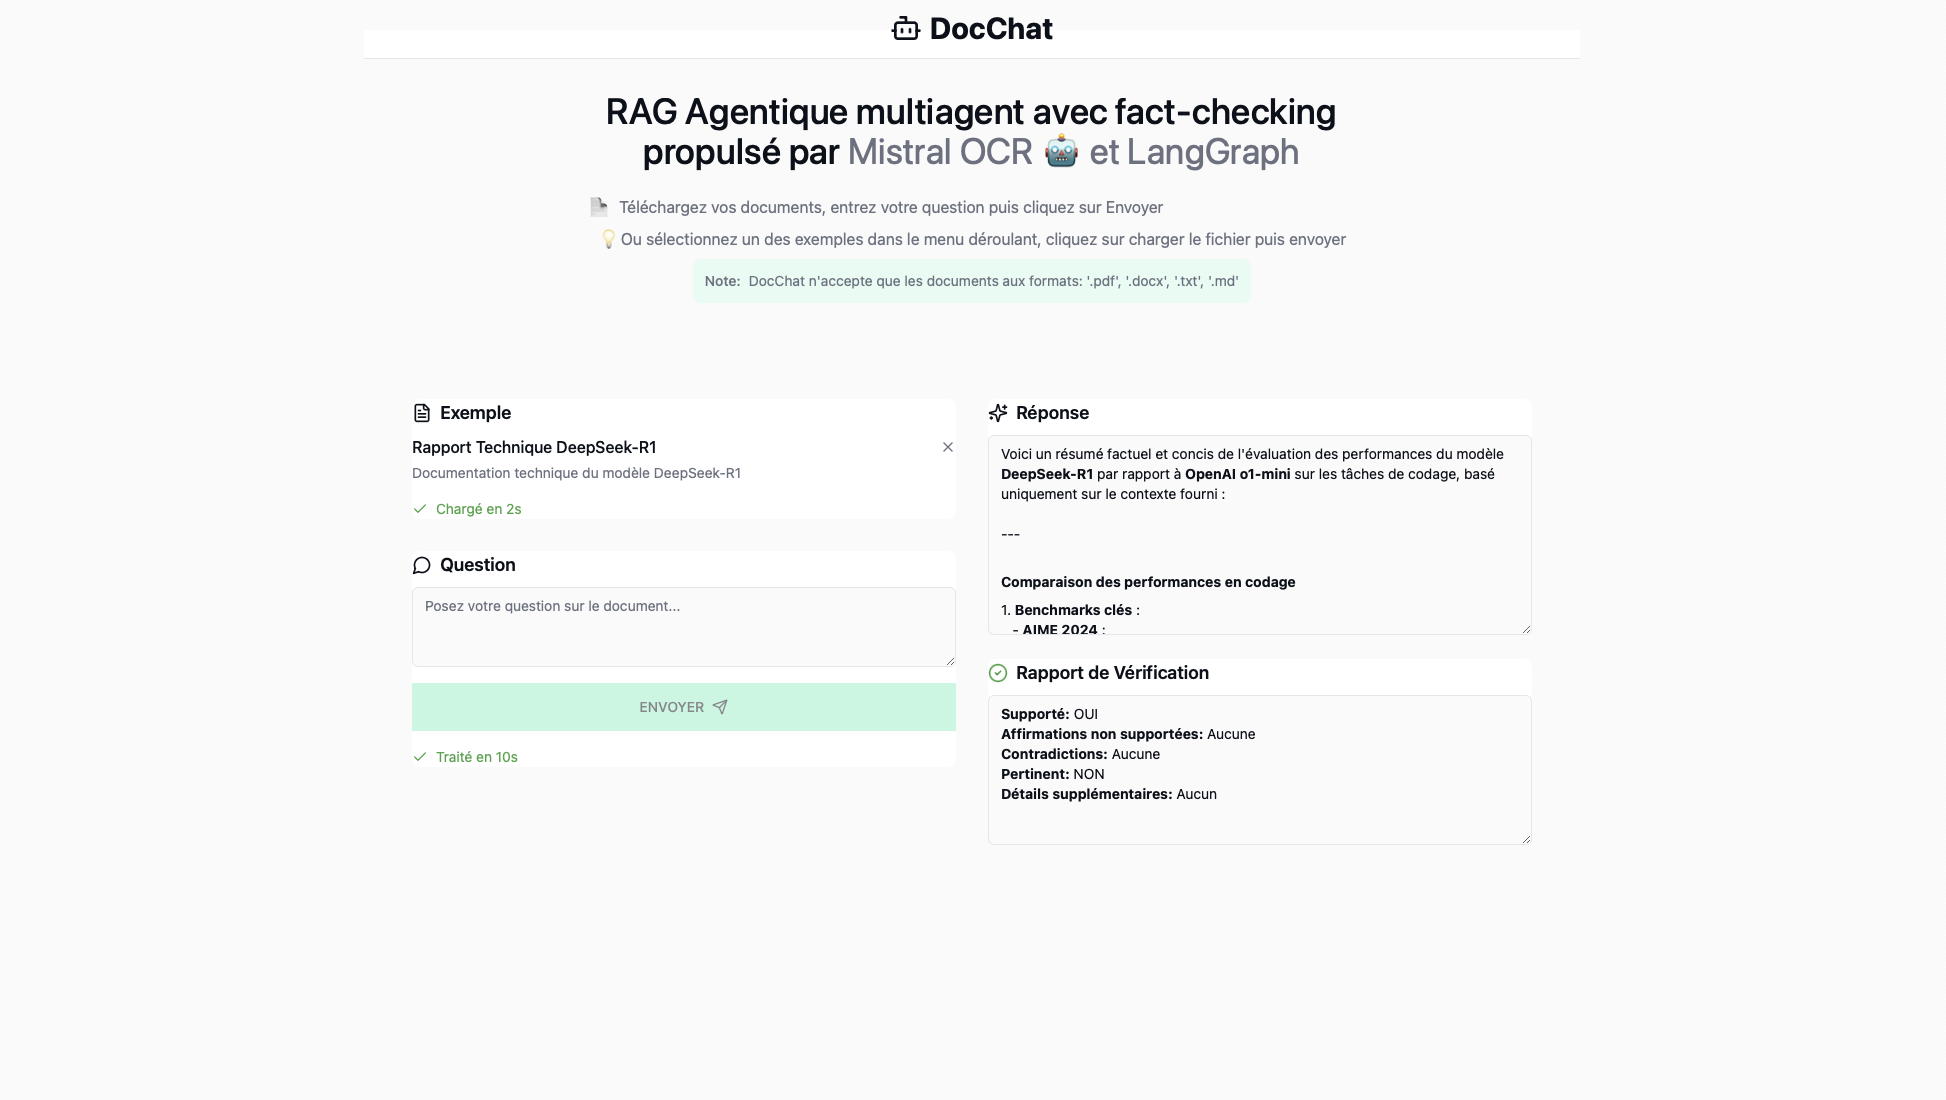
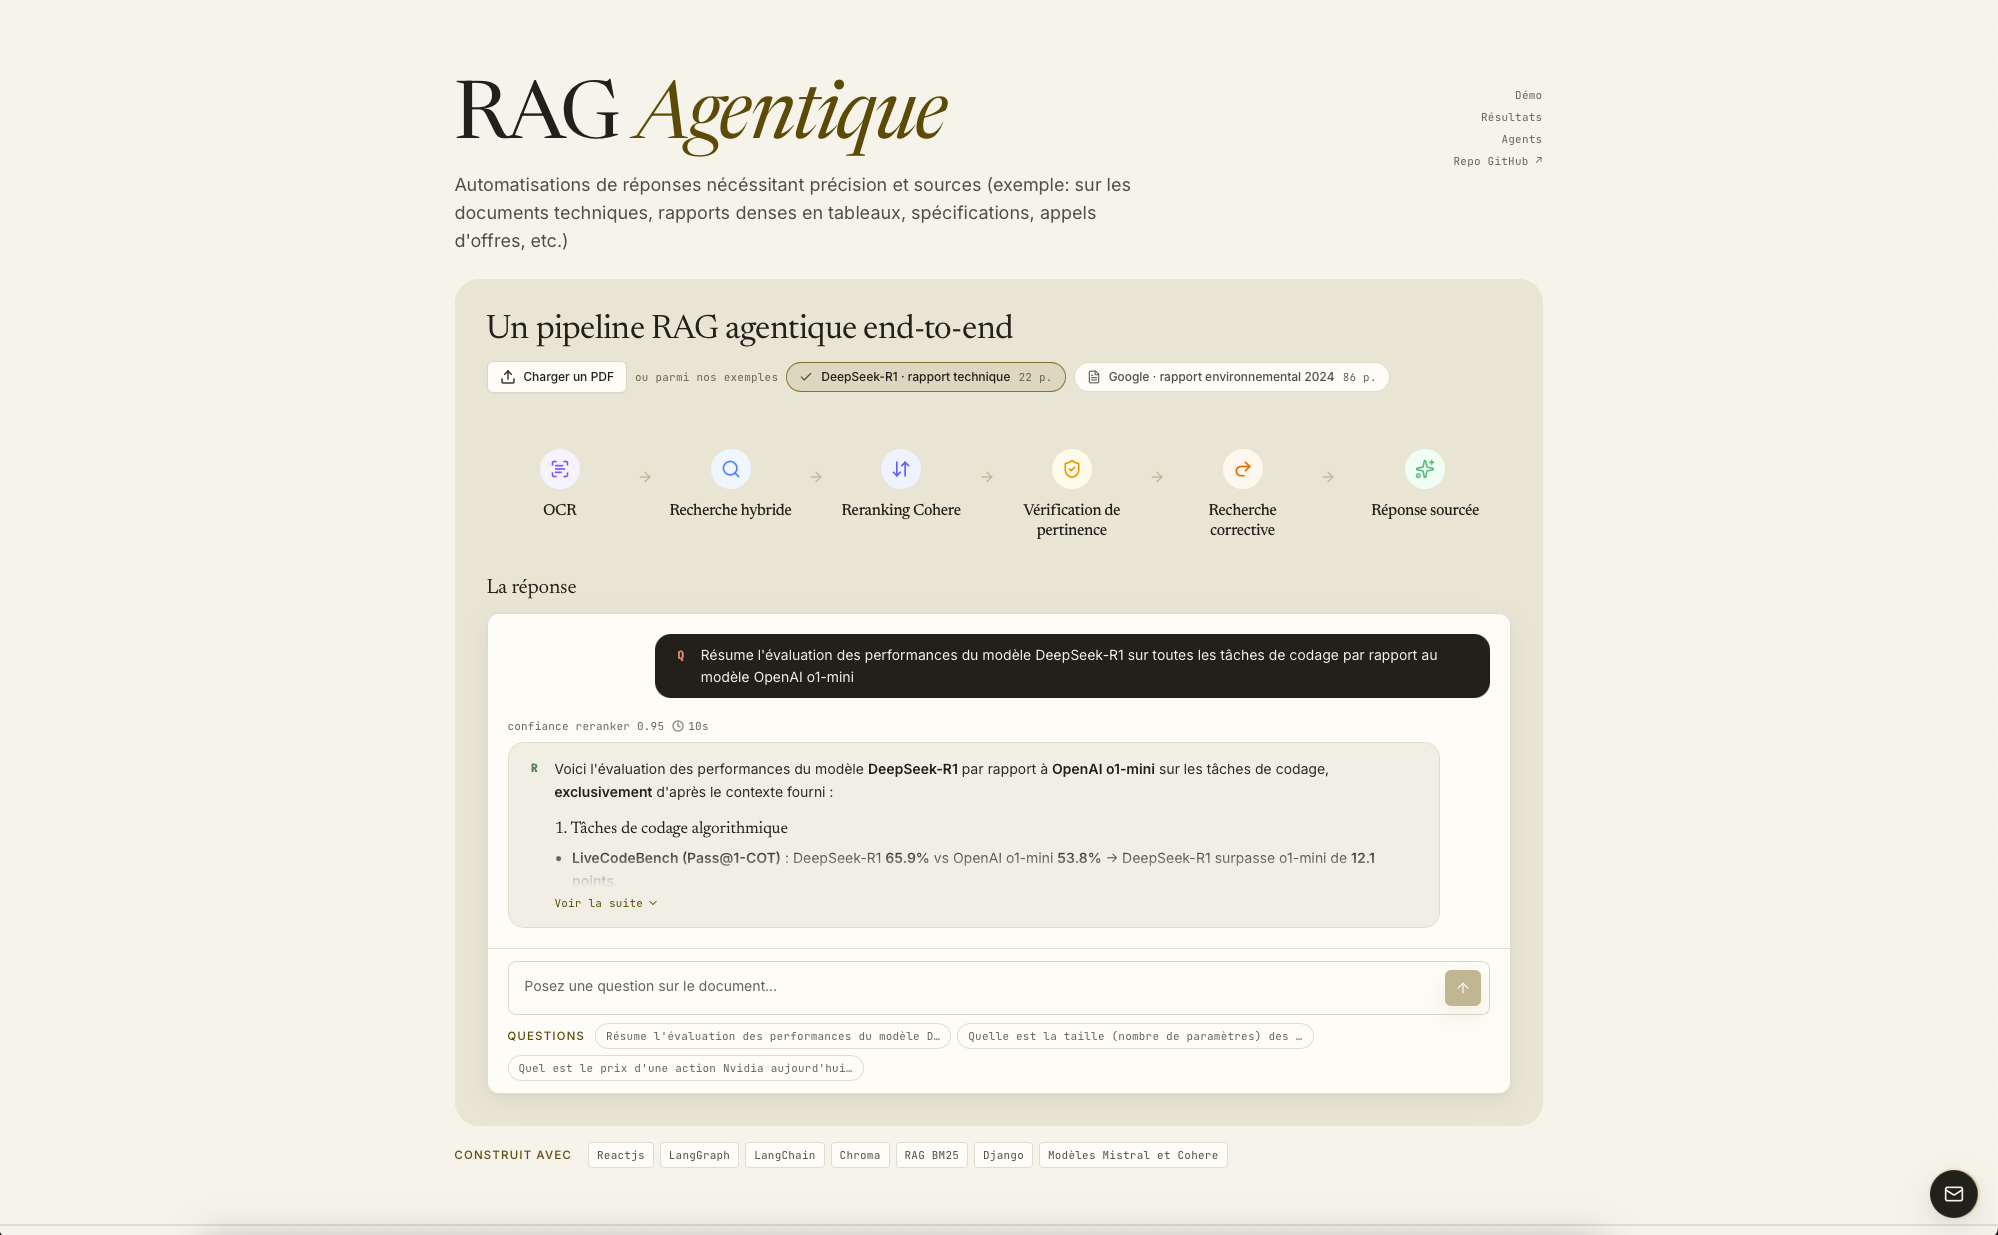
Retire les captures GPT-4o / DeepSeek du README et met à jour le header
La comparaison se fait désormais uniquement entre RAG naïf et RAG agentique,
sans nommer de modèle concurrent.

Claude-Session: https://claude.ai/code/session_01Q4RgmBxFZinbAwvrV1sxu3

diff --git a/README.md b/README.md
@@ -4,13 +4,6 @@
 
 Ce système RAG agentique combine des agents spécialisés et un récupérateur avancé (BM25 + embeddings + reranking) pour une haute précision dans la recherche de documents — mesurée sur [FinanceBench](https://github.com/patronus-ai/financebench), le benchmark utilisé par Mistral pour évaluer Agentic Search.
 
-
-![Image 1](./static/chatgpt-test.png)
-GPT 4o halucine, les stats de tableaux récupérées ne sont pas les bonnes.
-
-![Image 2](./static/deepseek-test.png)
-DeepSeek R1 s'arrête il n'arrive pas à lire le document en entier.
-
 ## Architecture IA
 
 ![Projet Overview](./static/project-overview.jpg)
